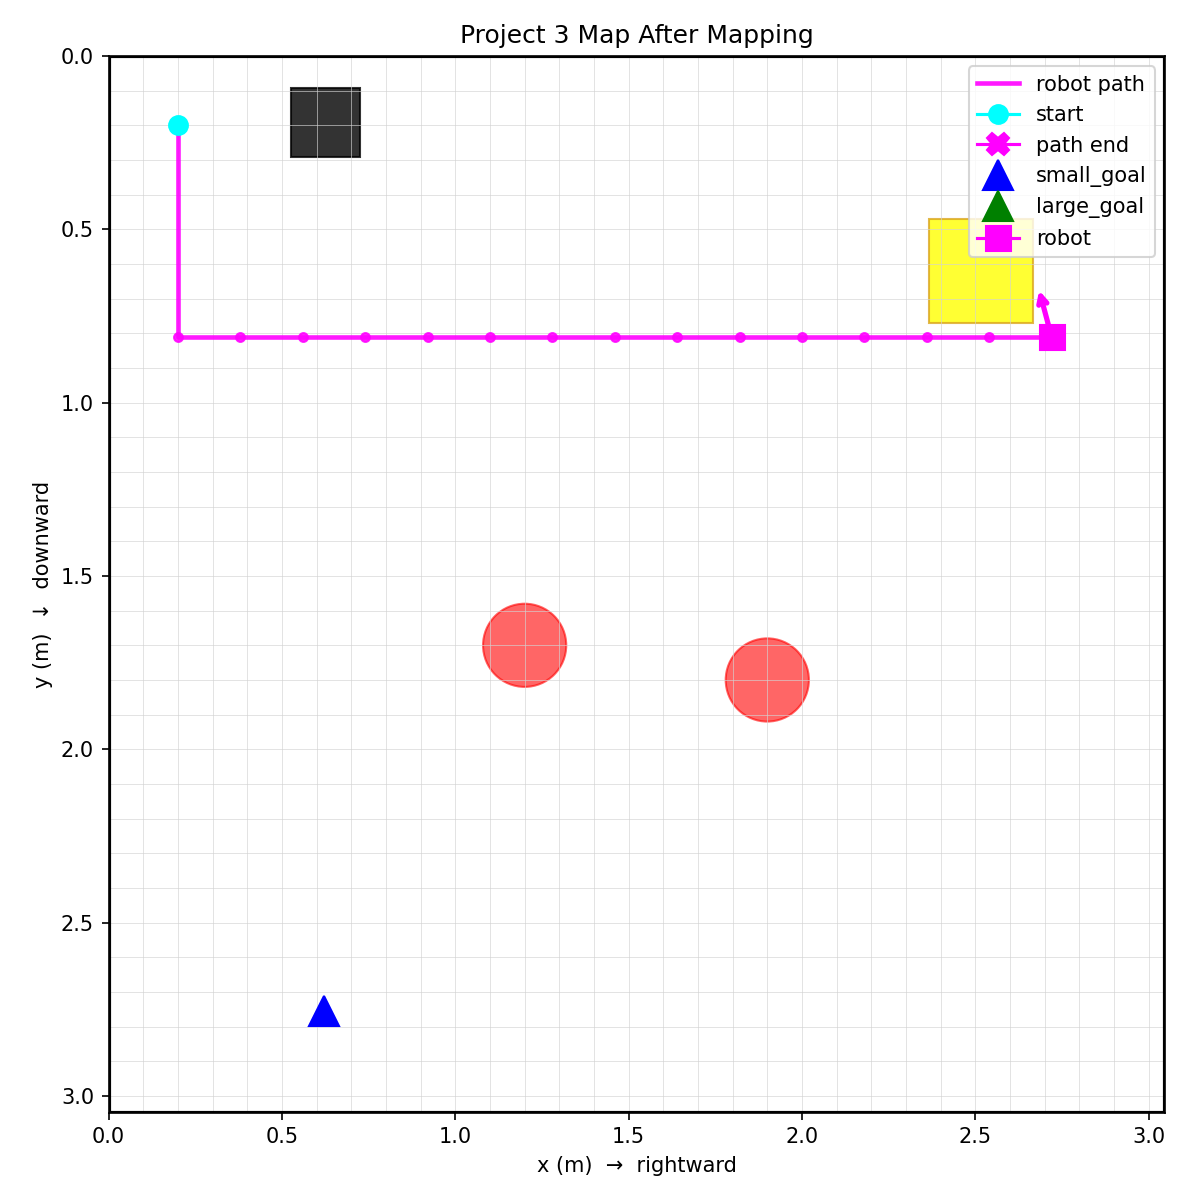
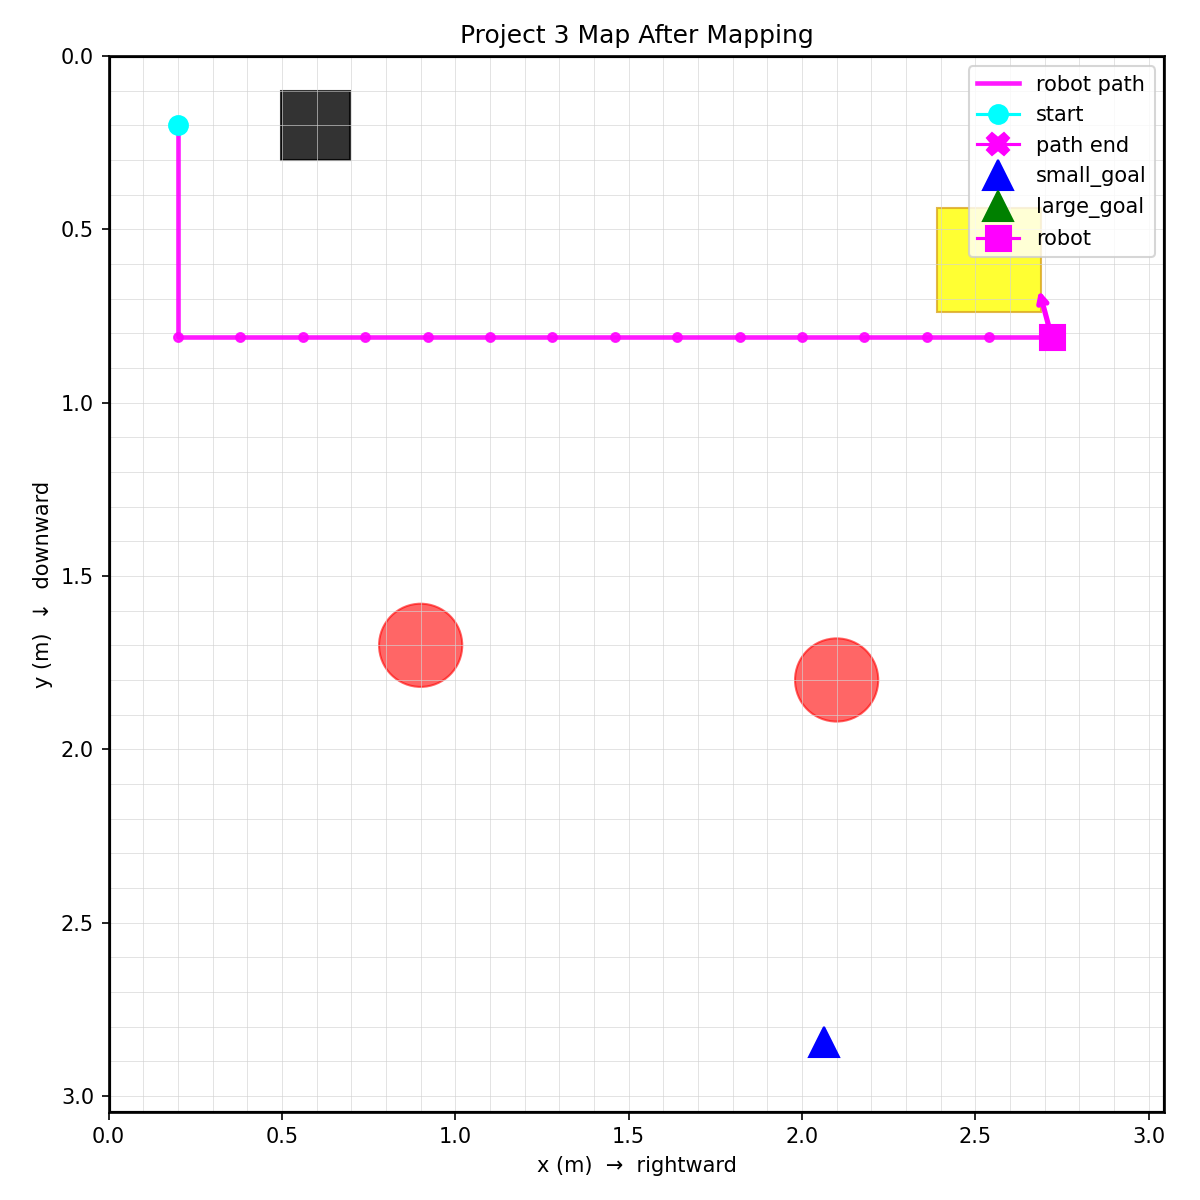
recharge station fixes

diff --git a/Project 3/project_3_updated.py b/Project 3/project_3_updated.py
@@ -76,6 +76,9 @@ from config import (
     OBSTACLE_1_FALLBACK_POSITION,
     OBSTACLE_2_FALLBACK_POSITION,
     DOCK_FALLBACK_POSITION,
+    GOAL_TAG_SAME_BLOCK_PAIRS,
+    RECHARGE_ALIGNMENT_TAG_ID,
+    RECHARGE_STOP_DIST_M,
     RECHARGE_TAG_IDS,
     ROBOT_IP,
     ROBOT_SN,
@@ -123,7 +126,6 @@ DOCK_FALLBACK_POSITION: Tuple[float, float] = DOCK_FALLBACK_POSITION
 # Navigation stop distances.
 LANDMARK_STOP_DIST_M = 0.55
 GOAL_SERVO_DIST_M = 0.30
-RECHARGE_SERVO_DIST_M = 0.22
 DOCK_SEARCH_STEP_DEG = 15.0
 MAX_TAG_SEARCH_STEPS = 6
 
@@ -221,6 +223,7 @@ class WorldMap:
     obstacles: List[Landmark] = field(default_factory=list)
     fallback_notes: List[str] = field(default_factory=list)
     path_points: List[Tuple[float, float]] = field(default_factory=list)
+    seen_goal_tag_ids: set[int] = field(default_factory=set)
 
     def goal_for_kind(self, kind: str) -> Optional[Landmark]:
         if kind == "small_goal":
@@ -238,6 +241,7 @@ class WorldMap:
             self.small_goal = landmark
         else:
             self.large_goal = landmark
+        self.seen_goal_tag_ids.add(tag_id)
         return landmark
 
     def add_or_update_obstacle(self, x: float, y: float, tag_id: Optional[int] = None) -> Landmark:
@@ -388,6 +392,25 @@ def goal_kind_from_tag(tag_id: int) -> Optional[str]:
     if tag_id in LARGE_GOAL_TAG_IDS:
         return "large_goal"
     return None
+
+
+GOAL_TAG_TO_SAME_BLOCK_TAG = {
+    tag_id: partner
+    for a, b in GOAL_TAG_SAME_BLOCK_PAIRS
+    for tag_id, partner in ((a, b), (b, a))
+}
+
+
+def goal_tag_should_be_ignored(tag_id: int, world_map: WorldMap) -> bool:
+    goal_kind = goal_kind_from_tag(tag_id)
+    if goal_kind is None:
+        return False
+    if world_map.goal_for_kind(goal_kind) is not None:
+        return True
+    partner_tag_id = GOAL_TAG_TO_SAME_BLOCK_TAG.get(tag_id)
+    if partner_tag_id is not None and partner_tag_id in world_map.seen_goal_tag_ids:
+        return True
+    return tag_id in world_map.seen_goal_tag_ids
 
 
 def is_obstacle_tag(tag_id: int) -> bool:
@@ -1354,7 +1377,7 @@ def wait_for_goal_tag(
 def is_unmapped_sweep_tag(tag_id: int, world_map: WorldMap, required_obstacles: int) -> bool:
     goal_kind = goal_kind_from_tag(tag_id)
     if goal_kind is not None:
-        return world_map.goal_for_kind(goal_kind) is None
+        return not goal_tag_should_be_ignored(tag_id, world_map)
     if not is_obstacle_tag(tag_id):
         return False
     if len(world_map.obstacles) >= required_obstacles:
@@ -1377,6 +1400,8 @@ def map_goal_from_view(
     goal_kind = goal_kind_from_tag(tag_id)
     if goal_kind is None:
         raise RuntimeError(f"Tag {tag_id} is not configured as a goal tag.")
+    if goal_tag_should_be_ignored(tag_id, world_map):
+        raise RuntimeError(f"Tag {tag_id} should be ignored because its goal/block was already mapped.")
     debug_log_tag_mapping(tag, pose, label)
     landmark = landmark_from_tag_detection(tag, goal_kind, pose)
     landmark = world_map.set_goal(goal_kind, landmark.x, landmark.y, tag_id)
@@ -1462,7 +1487,7 @@ def scan_left_and_map_world(
                 tag_id = int(tag.tag_id)
                 goal_kind = goal_kind_from_tag(tag_id)
                 if goal_kind is not None:
-                    if world_map.goal_for_kind(goal_kind) is not None:
+                    if goal_tag_should_be_ignored(tag_id, world_map):
                         continue
                     is_priority_tag = priority_tag is not None and tag is priority_tag
                     if (
@@ -1553,6 +1578,44 @@ def scan_left_and_map_world(
     raise RuntimeError("Could not map both goals and the required obstacles while translating left.")
 
 
+def sweep_left_until_recharge_tag_centered(
+    ep_camera,
+    ep_chassis,
+    yolo_model: YOLO,
+    tag_detector: AprilTagDetector,
+    pose: Pose2D,
+    target_tag_id: int,
+    max_left_m: float = WORKSPACE_W_M,
+) -> Optional[object]:
+    """Translate left until the requested recharge tag is horizontally centred."""
+    total_left_m = pose.x
+    centered_stable = 0
+
+    while total_left_m >= 0:
+        frame = read_frame(ep_camera, timeout=0.5)
+        if frame is not None:
+            tags, _ = detect_tags_and_objects(frame, yolo_model, tag_detector)
+            tag = find_best_tag(tags, {target_tag_id})
+            if tag is not None:
+                err_px = center_error_px(float(tag.center[0]))
+                if abs(err_px) <= CENTER_TOL_PX:
+                    centered_stable += 1
+                    if centered_stable >= 2:
+                        return tag
+                else:
+                    centered_stable = 0
+            else:
+                centered_stable = 0
+
+        if total_left_m - LEFT_SCAN_STEP_M < 0:
+            break
+        move_robot(ep_chassis, pose, y_m=-LEFT_SCAN_STEP_M)
+        total_left_m -= LEFT_SCAN_STEP_M
+        
+
+    return None
+
+
 def map_loading_dock(
     ep_camera,
     ep_chassis,
@@ -1630,9 +1693,9 @@ def servo_to_visible_tag(
 
     Yaw correction:
       A positive center error (tag right of image centre) means the robot must
-      turn CW (yaw increases) to centre the tag.  drive_speed(z=+ω) is CCW
-      (yaw decreases), so to turn CW we use a negative z value:
-          wz = -K * err_px   (negative when tag is to the right)
+      turn CCW (yaw decreases) to centre the tag. drive_speed(z=+ω) is CCW,
+      so we use a positive z value when the tag is to the right:
+          wz = +K * err_px   (positive when tag is to the right)
     """
     valid_set = set(valid_ids)
     deadline = time.time() + timeout_s
@@ -1659,8 +1722,8 @@ def servo_to_visible_tag(
             return True
 
         vx = max(-0.10, min(0.10, 0.45 * err_dist_m))
-        # Positive err_px → tag to the right → turn CW → z negative.
-        wz = max(-24.0, min(24.0, -0.08 * err_px))
+        # Positive err_px → tag to the right → turn CCW → z positive.
+        wz = max(-24.0, min(24.0, 0.08 * err_px))
         dt = 0.15
         ep_chassis.drive_speed(x=vx, y=0.0, z=wz, timeout=dt)
         time.sleep(dt)
@@ -1763,20 +1826,51 @@ def recharge_robot(
 ) -> None:
     if world_map.recharge is None:
         raise RuntimeError("Recharge requested before recharge was mapped.")
+    if RECHARGE_ALIGNMENT_TAG_ID not in RECHARGE_TAG_IDS:
+        raise RuntimeError(
+            f"RECHARGE_ALIGNMENT_TAG_ID={RECHARGE_ALIGNMENT_TAG_ID} is not present in RECHARGE_TAG_IDS."
+        )
     print(
         f"[Recharge] Repositioning from ({pose.x:.3f}, {pose.y:.3f}, {math.degrees(pose.yaw):.1f}°) "
-        f"before final approach to recharge at ({world_map.recharge.x:.3f}, {world_map.recharge.y:.3f})"
+        f"to reacquire recharge tag {RECHARGE_ALIGNMENT_TAG_ID} near "
+        f"({world_map.recharge.x:.3f}, {world_map.recharge.y:.3f})"
     )
-    turn_to_yaw(ep_chassis, pose, math.pi)
-    move_robot(ep_chassis, pose, x_m=2.0)
+    turn_to_yaw(ep_chassis, pose, -math.pi / 2.0)
+    move_robot(ep_chassis, pose, x_m=-0.3)
     print(
-        f"[Recharge] Final turn to face recharge from ({pose.x:.3f}, {pose.y:.3f}, "
-        f"{math.degrees(pose.yaw):.1f}°)"
+        f"[Recharge] Sweeping left to center recharge tag {RECHARGE_ALIGNMENT_TAG_ID} from "
+        f"({pose.x:.3f}, {pose.y:.3f}, {math.degrees(pose.yaw):.1f}°)"
     )
-    face_landmark(ep_chassis, pose, world_map.recharge)
+    tag = sweep_left_until_recharge_tag_centered(
+        ep_camera,
+        ep_chassis,
+        yolo_model,
+        tag_detector,
+        pose,
+        RECHARGE_ALIGNMENT_TAG_ID,
+    )
+    if tag is None:
+        print(
+            f"[Recharge] Could not center recharge tag {RECHARGE_ALIGNMENT_TAG_ID} during the left sweep."
+        )
+        return
+
+    debug_log_tag_mapping(tag, pose, "recharge-final")
+    improved_recharge = landmark_from_tag_detection(tag, "recharge", pose)
+    world_map.recharge = Landmark(
+        kind="recharge",
+        x=improved_recharge.x,
+        y=improved_recharge.y,
+        tag_id=RECHARGE_ALIGNMENT_TAG_ID,
+    )
+    print(
+        f"[Recharge] Updated recharge position from tag {RECHARGE_ALIGNMENT_TAG_ID} to "
+        f"({world_map.recharge.x:.3f}, {world_map.recharge.y:.3f})"
+    )
+
     success = servo_to_visible_tag(
         ep_camera, ep_chassis, yolo_model, tag_detector, pose,
-        RECHARGE_TAG_IDS, target_dist_m=RECHARGE_SERVO_DIST_M,
+        {RECHARGE_ALIGNMENT_TAG_ID}, target_dist_m=RECHARGE_STOP_DIST_M,
     )
     if not success:
         print("[Recharge] Tag servo timed out before reaching the recharge tag.")
@@ -1784,7 +1878,10 @@ def recharge_robot(
 
     ep_chassis.drive_speed(x=0.0, y=0.0, z=0.0, timeout=0.1)
     battery.recharge()
-    print(f"[Recharge] Reached recharge tag. Battery now {battery.level:.0f}%")
+    print(
+        f"[Recharge] Reached recharge tag {RECHARGE_ALIGNMENT_TAG_ID} at {RECHARGE_STOP_DIST_M:.2f} m. "
+        f"Battery now {battery.level:.0f}%"
+    )
 
 
 # ---------------------------------------------------------------------------
@@ -2025,6 +2122,7 @@ def main() -> None:
         execute_mapping_sequence(
             ep_camera, ep_chassis, yolo_model, tag_detector, pose, world_map,
         )
+        print(world_map.summary())
         if args.show_map or args.map_only:
             visualize_map(
                 world_map,
@@ -2039,7 +2137,6 @@ def main() -> None:
             pose, world_map, battery,
             leave_after_recharge=False,
         )
-        print(world_map.summary())
 
         if args.show_map or args.map_only:
             visualize_map(

diff --git a/Project 3/config.py b/Project 3/config.py
@@ -24,12 +24,16 @@ DEFAULT_MODEL_PATH = PROJECT_DIR / "new_best.pt"
 # DEFAULT_ROBOT_SN = "3JKCH8800100UB"
 
 # Robot 7
-DEFAULT_ROBOT_IP = "192.168.50.117"
-DEFAULT_ROBOT_SN = "3JKCH8800100RC"
+# DEFAULT_ROBOT_IP = "192.168.50.117"
+# DEFAULT_ROBOT_SN = "3JKCH8800100RC"
 
 # Robot 5
 # DEFAULT_ROBOT_IP = "192.168.50.115"
 # DEFAULT_ROBOT_SN = "3JKCH8800101CE"
+
+# Robot 7
+DEFAULT_ROBOT_IP = "192.168.50.119"
+DEFAULT_ROBOT_SN = "3JKCH88001012K"
 ROBOT_IP = DEFAULT_ROBOT_IP
 ROBOT_SN = DEFAULT_ROBOT_SN
 MODEL_PATH = DEFAULT_MODEL_PATH
@@ -154,6 +158,10 @@ TAG_SIZE_M = 0.2
 RECHARGE_TAG_IDS = {34, 38}
 SMALL_GOAL_TAG_IDS = {11, 41}
 LARGE_GOAL_TAG_IDS = {45, 19}
+GOAL_TAG_SAME_BLOCK_PAIRS = (
+    (11, 19),
+    (45, 41),
+)
 ALL_LANDMARK_TAG_IDS = RECHARGE_TAG_IDS | SMALL_GOAL_TAG_IDS | LARGE_GOAL_TAG_IDS
 
 
@@ -204,9 +212,10 @@ OBS_CLEAR_DIST_M = 0.3
 OBS_APPROACH_DIST_M = 0.35
 OBS_SLIDE_SPEED_MPS = 0.12
 OBS_FWD_SPEED_MPS = 0.14
-OBSTACLE_1_FALLBACK_POSITION = (1.2, 1.7)
-OBSTACLE_2_FALLBACK_POSITION = (1.9, 1.8)
+OBSTACLE_1_FALLBACK_POSITION = (0.9, 1.7)
+OBSTACLE_2_FALLBACK_POSITION = (2.1, 1.8)
 DOCK_FALLBACK_POSITION = (2.46, 0.48)
+RECHARGE_ALIGNMENT_TAG_ID = 34
 
 
 # Recharge approach
